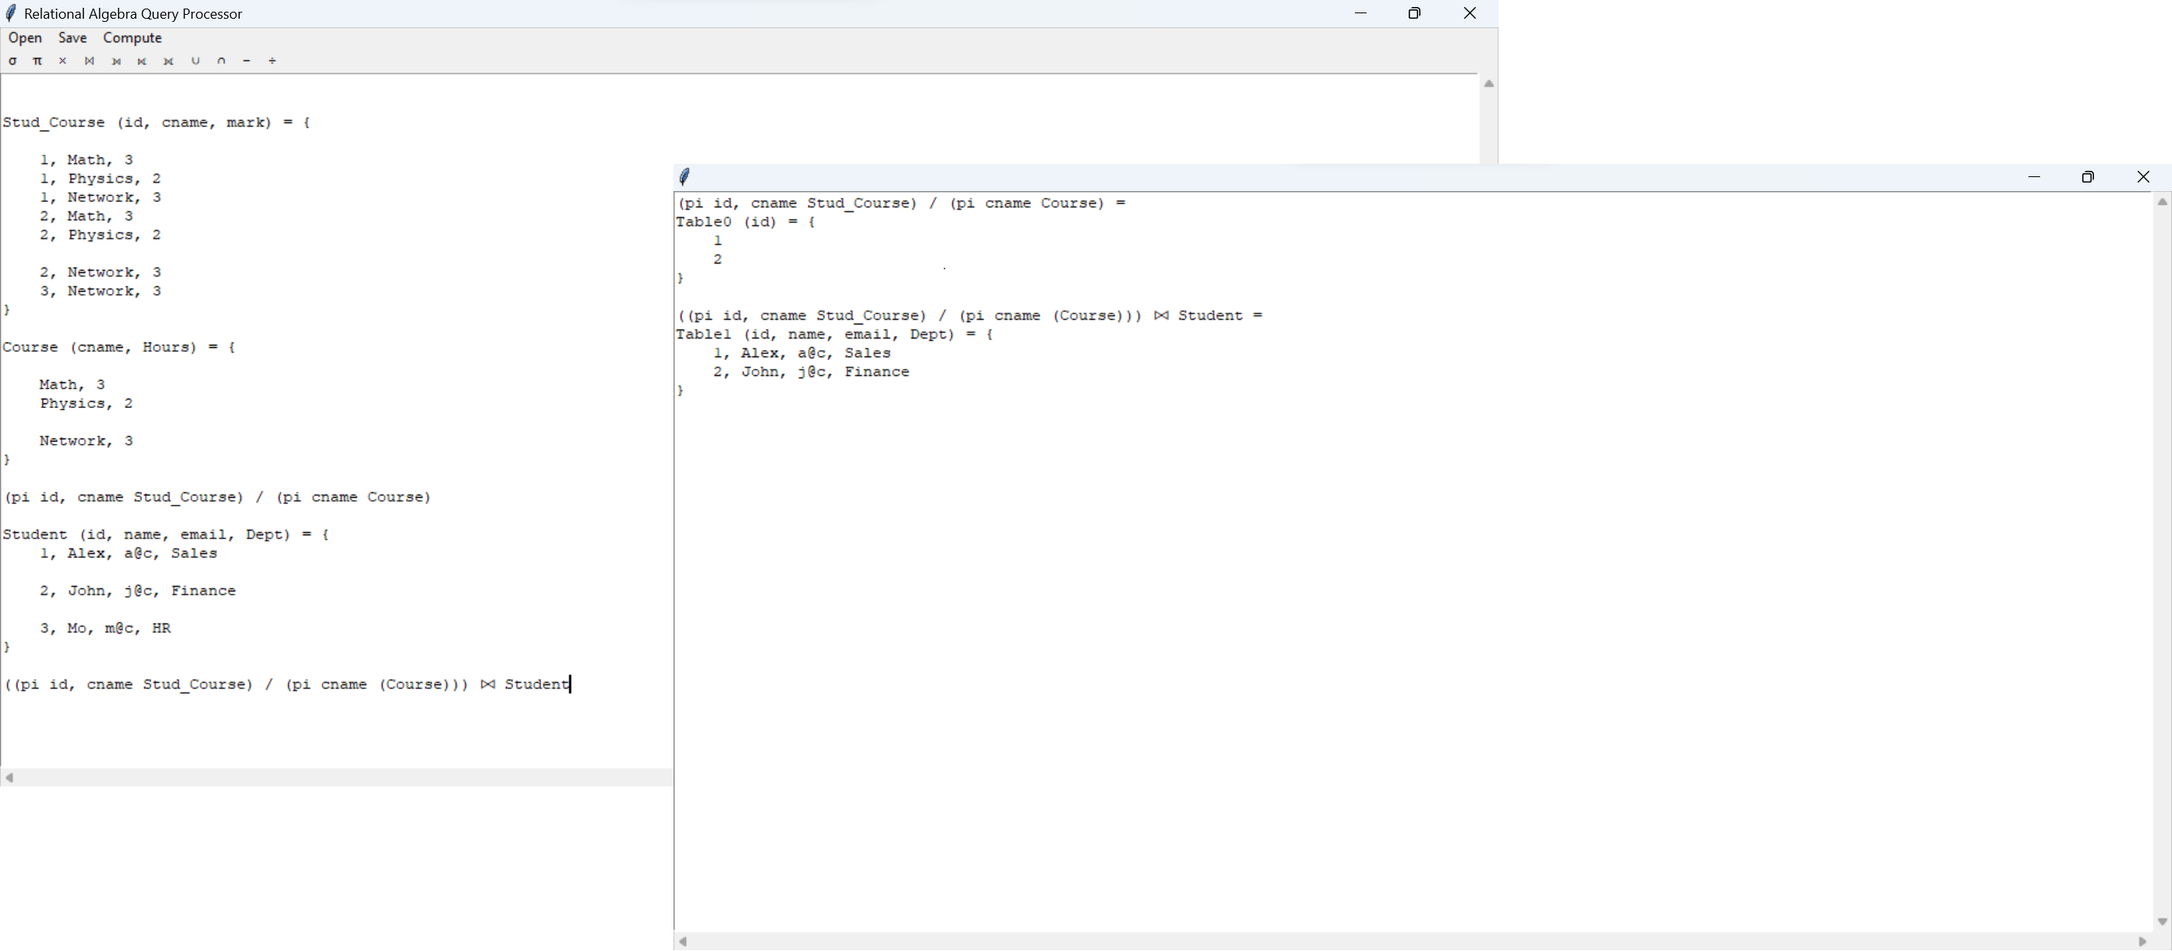
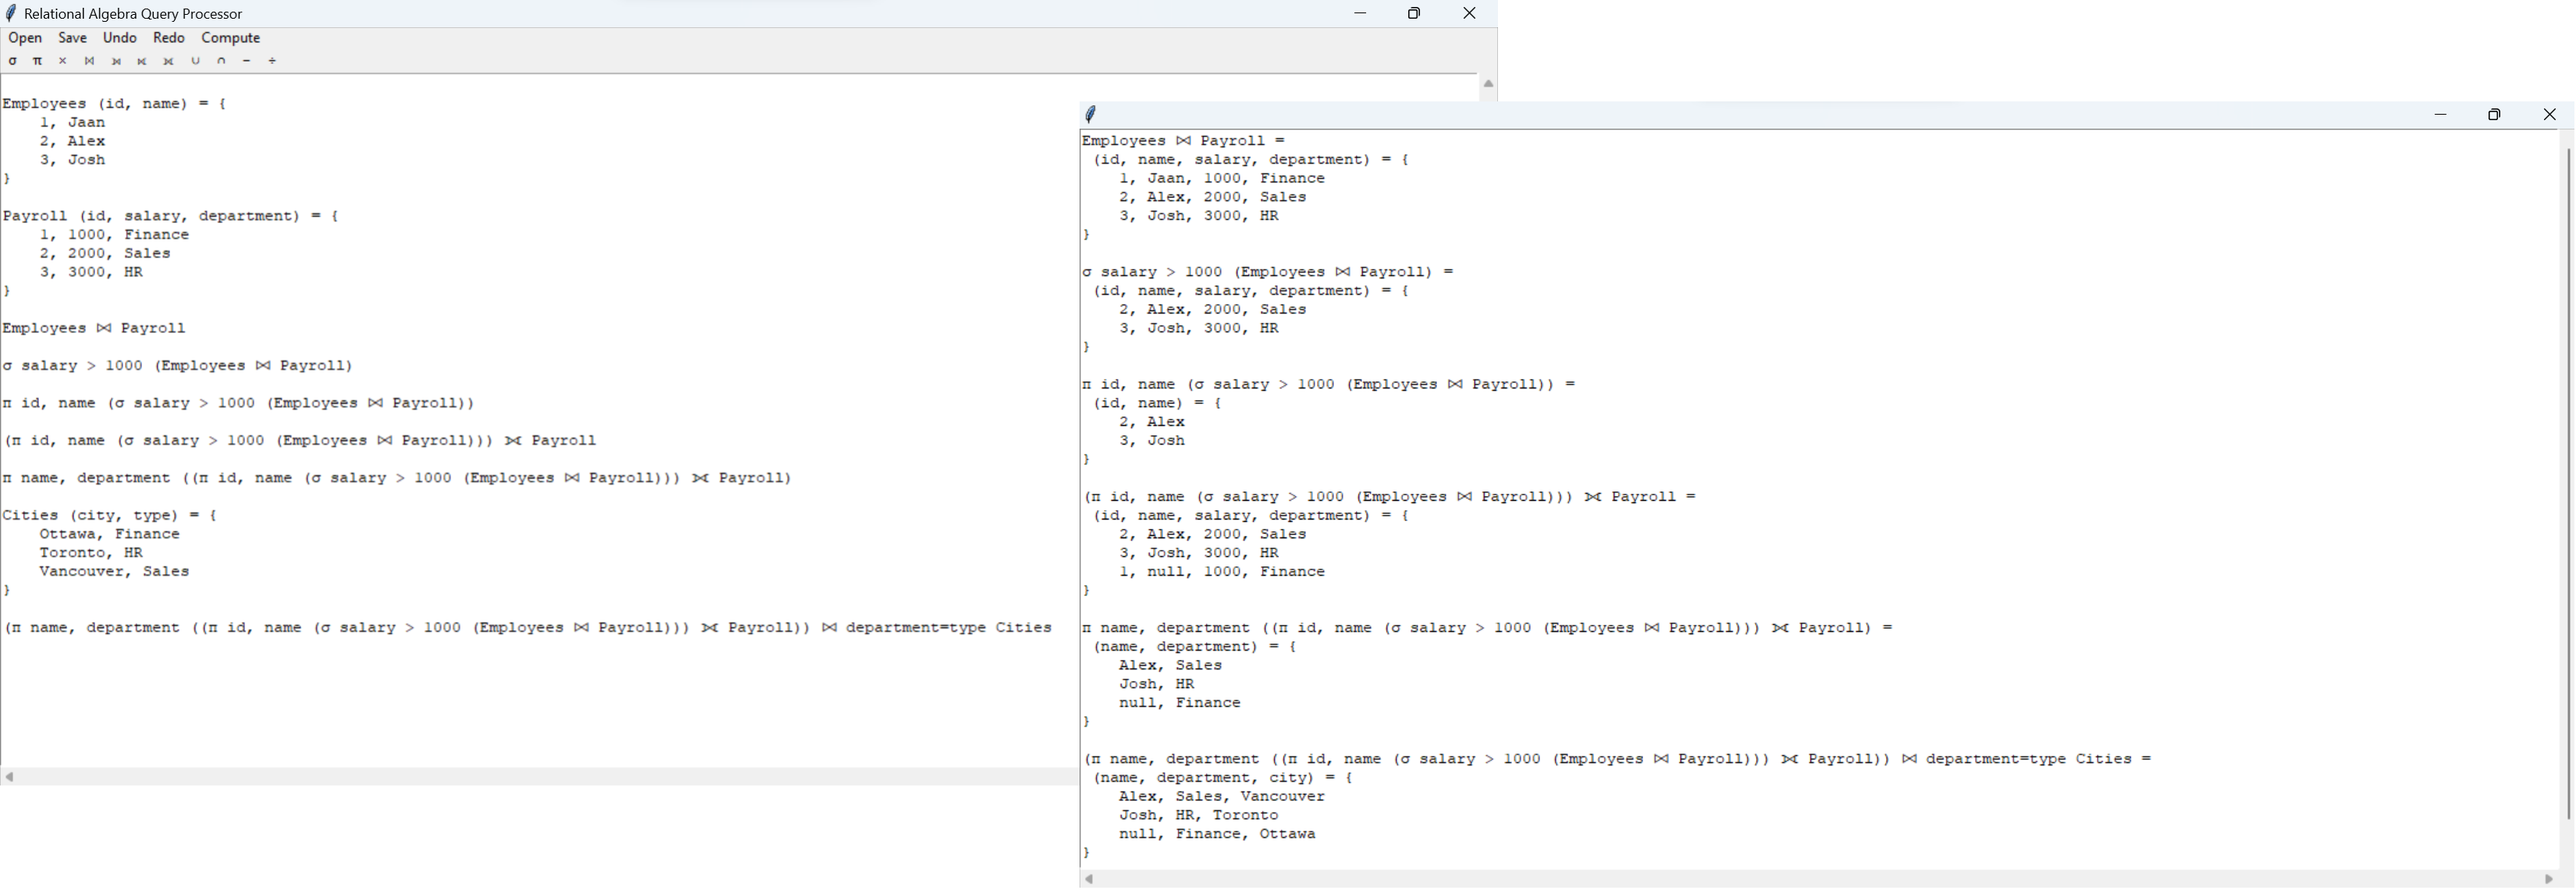
Done

diff --git a/gui_lexer.py b/gui_lexer.py
@@ -36,8 +36,7 @@ class GUILexer(tkinter.Toplevel):
             # Try to print tables and queries
             tables = self.lexer.compute(string)
             queries = self.lexer.queries
-            for i, [table, query] in enumerate(zip(tables, queries)):
-                table.name = 'Query' + str(i)
+            for table, query in zip(tables, queries):
                 self.editor.insert(query)
                 self.editor.insert(' =\n')
                 self.editor.insert(table)
